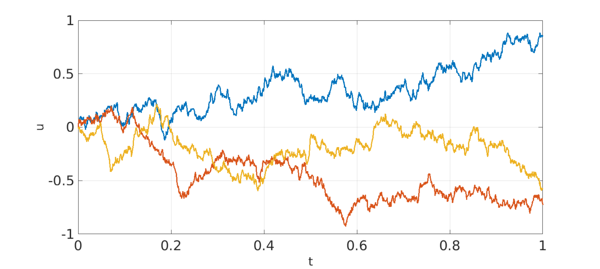
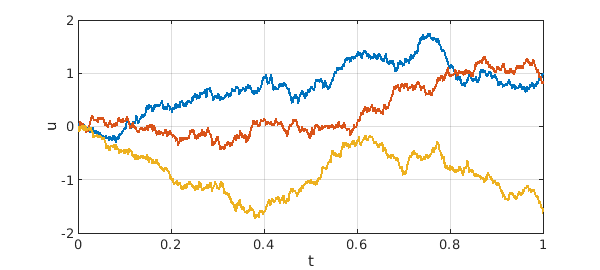
updating random example

diff --git a/examples/ode-random/Random2SDE.html b/examples/ode-random/Random2SDE.html
@@ -61,30 +61,38 @@
     <div class="container">
 <div class="row main">
 <div id='content' class="col-sm-12 example" role="main">
-<p>The new Chebfun release v5.7.0 brings with it a new set of capabilities: smooth random functions, or as we will often simply call them, random functions.  The commands are <code>randnfun</code>, <code>randnfun2</code>, <code>randnfunsphere</code>, and <code>randnfundisk</code>.  (As of this writing there is not yet a <code>randnfun3</code>.)  Each of these returns a band-limited function defined by a Fourier series with independent random coefficients; a parameter $\lambda$ specifies the minimal wavelength.  These commands have not yet been fully written up, but a few examples can be found in the Approximation (1D), Approximation (2D), and Statistics and Probability sections of these Examples, and more details can be found in the help texts and Matlab codes.</p>
+<p>The new Chebfun release v5.7.0 brings with it a new set of capabilities: smooth random functions. The commands are <code>randnfun</code>, <code>randnfun2</code>, <code>randnfunsphere</code>, and <code>randnfundisk</code>.  (There is not yet a <code>randnfun3</code>.)  Each of these returns a band-limited function defined by a Fourier series with independent random coefficients; a parameter $\lambda$ specifies the minimal wavelength.  For information about the mathematics, see [1] and also chapter 12 of [2].</p>
 <pre class="mcode-input">help randnfun</pre>
 
-<pre class="mcode-output"> RANDNFUN   Random smooth function
-    F = RANDNFUN(LAMBDA) returns a smooth CHEBFUN on [-1,1] with maximum
-    frequency about 2pi/LAMBDA and standard normal distribution N(0,1)
-    at each point.  F can be regarded as one sample path of a Gaussian
+<pre class="mcode-output"> RANDNFUN   Smooth random function
+    F = RANDNFUN(LAMBDA) returns a CHEBFUN on [-1,1] with maximum
+    frequency &lt;= 2pi/LAMBDA and standard normal distribution N(0,1)
+    at each point.  F can be regarded as a sample path of a Gaussian
     process.  It is obtained by calling RANDNFUN(LAMBDA, 'trig') on an
-    interval about 20% longer and restricting the result to [-1,1].
+    interval 20% longer and restricting the result to [-1,1].
 
     RANDNFUN(LAMBDA, DOM) returns a result with domain DOM = [A, B].
 
     RANDNFUN(LAMBDA, N) returns a quasimatrix with N independent columns.
 
-    RANDNFUN(LAMBDA, 'norm') normalizes the output by dividing it by
-    SQRT(LAMBDA), so white noise is approached in the limit LAMBDA -&gt; 0.
+    RANDNFUN(LAMBDA, 'big') normalizes the output by dividing it by
+    SQRT(LAMBDA/2), so white noise is approached in the limit LAMBDA -&gt; 0,
+    with an indefinite integral corresponding to standard Brownian motion.
 
     RANDNFUN(LAMBDA, 'trig') returns a random periodic function.  This
-    is defined by a finite Fourier series with independent normally
+    is defined by a finite Fourier-Wiener series with independent normally
     distributed coefficients of equal variance.
 
+    RANDNFUN(LAMBDA, 'complex') returns a complex random function.  The
+    variance is the same as in the real case (i.e., not twice as great).
+
     RANDNFUN() uses the default value LAMBDA = 1.  Combinations such
-    as RANDNFUN(DOM), RANDNFUN('norm', LAMBDA) are allowed so long as
-    LAMBDA, if present, precedes N, if present.
+    as RANDNFUN(DOM) and RANDNFUN('big', LAMBDA) are allowed so long as
+    N, if present, is preceded by an explicit specification of LAMBDA.
+
+    Reference: S. Filip, A. Javeed, and L. N. Trefethen, "Smooth random
+    functions, random ODEs, and Gaussian processes," SIAM Review, 61
+    (2019), pp. 185-205.
 
   Examples:
 
@@ -93,32 +101,38 @@
 
     X = randnfun(.01,2); cov(X)
 
-    f = randnfun(0.1,'norm',[0 10]); plot(cumsum(f))
+    s = randi(100);
+    rng(s), f1 = randnfun(0.5,'big',[0 10],3);
+    rng(s), f2 = randnfun(0.1,'big',[0 10],3);
+    plot(cumsum(f1),'k',cumsum(f2),'r')
 
-  See also RANDNFUN2, RANDNFUNSPHERE, RANDNFUNDISK.
+    plot(cumsum(randnfun(.01,[0 5],'complex','big'))), axis equal
+
+  See also RANDNFUN2, RANDNFUNSPHERE, RANDNFUNDISK, SMOOTHIE.
 
 </pre>
 
-<p>These commands make it easy to compute sample paths of random ODEs in Chebfun, that is, of ODEs defined by smooth random coefficients. As $\lambda \to 0$, we approach the limit of stochastic DEs (SDEs), typically in their Stratonovich (as opposed to It&ocirc;) formulation.  This too has not been written up.  Precise statements relating Chebfun's random functions to SDEs are not yet available, but we expect them to be developed in due course, building for example on the theory of Wong and Zakai [1].  But we don't need a fully developed theory to start exploring!  Chebfun provides an easy window into some of the phenomena that make SDEs so fascinating and so important.  Just remember that, properly speaking, what Chebfun solves is a random ODE (based on band-limited randomness), not a true SDE (based on band-unlimited randomness, i.e., white noise, a notion made precise through the formulation of a Wiener process, also known as Brownian motion).</p>
-<p>For studies of this kind, one should always call <code>randnfun</code> and its cousins with the flag <code>'norm'</code>.  This multiplies the random function by $\lambda^{-1/2}$, meaning that its amplitude grows without bound as $\lambda\to 0$.  This is what is needed for random ODEs that are intended to approximate SDEs.</p>
+<p>These commands make it easy to compute sample paths of random ODEs in Chebfun, that is, of ODEs defined by smooth random coefficients. As $\lambda \to 0$, we approach the limit of stochastic DEs (SDEs) in their Stratonovich (as opposed to It&ocirc;) formulation. Thus Chebfun provides an easy window into the phenomena that make SDEs so fascinating and so important.  Note that what Chebfun solves is a random ODE (based on band-limited randomness), not an SDE (based on band-unlimited randomness, i.e., white noise, a notion made precise through the formulation of a Wiener process, also known as Brownian motion). In the limit $\lambda\to 0$ they are the same (though Chebfun becomes quite an inefficient tool if you try to get too close to that limit).</p>
+<p>For ODE-related studies, one should always call <code>randnfun</code> and its cousins with the flag <code>'big'</code>.  This multiplies the random function by $(\lambda/2)^{-1/2}$, meaning that its amplitude grows without bound as $\lambda\to 0$.  This is what is needed for random ODEs to approximate SDEs.</p>
 <p>Here we give just the simplest example.  If $f$ is a normalized random function, then the equation $$ u' = f $$ has the indefinite integral of $f$ as its solution.  We call this a "smooth random walk".  If $\lambda$ is small enough, it looks to the eye like true Brownian motion, and as $\lambda \to 0$, that is what it approaches. For finite $\lambda$ there are no mathematical technicalities to worry about; it is simply an ODE.  Precise statements about the limit $\lambda\to 0$ require care, however, and stochastic analysts would write the equation above in a very different form, $$ dX_t = d W_t. $$</p>
 <p>Here are three smooth random walk sample paths for $t\in [0,1]$ with $u(0) = 0$ and $\lambda = 0.001$.</p>
 <pre class="mcode-input">tic
 rng(0)
-u = randnfun(0.001,[0 1],3,'norm');
-plot(cumsum(u),'linewidth',2.5)
-grid on, ylim([-1 1])
-xlabel('t','fontsize',30), ylabel('u','fontsize',30)</pre>
+u = randnfun(0.001,[0 1],3,'big');
+plot(cumsum(u))
+grid on, ylim([-2 2])
+xlabel t, ylabel u</pre>
 
 <p><img src="img/Random2SDE_01.png" class="figure" alt=""></p>
 <pre class="mcode-input">total_time_in_seconds = toc</pre>
 
 <pre class="mcode-output">total_time_in_seconds =
-   2.420549000000000
+   1.005472000000000
 </pre>
 
-<p>Reference:</p>
-<p>[1] E. Wong and M. Zakai, On the convergence of ordinary integrals to stochastic integrals, <em>The Annals of Mathematical Statistics</em> 36.5 (1965), 1560-1564.</p></div>
+<p>References:</p>
+<p>[1] S. Filip, A. Javeed, and L. N. Trefethen, Smooth random functions, random ODEs, and Gaussian processes, <em>SIAM Review</em>, 61 (2019), 185--205.</p>
+<p>[2] L. N. Trefethen, <em>Approximation Theory and Approximation Practice, Extended Edition</em>, SIAM, 2019.</p></div>
         </div>
     </div>
 </div>

diff --git a/examples/ode-random/img/Random2SDE.html b/examples/ode-random/img/Random2SDE.html
@@ -5,29 +5,37 @@ authordate: "Nick Trefethen and Abdul-Lateef Haji-Ali, May 2017"
 meta: "(Chebfun example ode-random/Random2SDE.m)"
 ---
 
-The new Chebfun release v5.7.0 brings with it a new set of capabilities: smooth random functions, or as we will often simply call them, random functions.  The commands are `randnfun`, `randnfun2`, `randnfunsphere`, and `randnfundisk`.  (As of this writing there is not yet a `randnfun3`.)  Each of these returns a band-limited function defined by a Fourier series with independent random coefficients; a parameter $\lambda$ specifies the minimal wavelength.  These commands have not yet been fully written up, but a few examples can be found in the Approximation (1D), Approximation (2D), and Statistics and Probability sections of these Examples, and more details can be found in the help texts and Matlab codes.
+The new Chebfun release v5.7.0 brings with it a new set of capabilities: smooth random functions. The commands are `randnfun`, `randnfun2`, `randnfunsphere`, and `randnfundisk`.  (There is not yet a `randnfun3`.)  Each of these returns a band-limited function defined by a Fourier series with independent random coefficients; a parameter $\lambda$ specifies the minimal wavelength.  For information about the mathematics, see [1] and also chapter 12 of [2].
 
-<pre class="mcode-input">help randnfun</pre><pre class="mcode-output"> RANDNFUN   Random smooth function
-    F = RANDNFUN(LAMBDA) returns a smooth CHEBFUN on [-1,1] with maximum
-    frequency about 2pi/LAMBDA and standard normal distribution N(0,1)
-    at each point.  F can be regarded as one sample path of a Gaussian
+<pre class="mcode-input">help randnfun</pre><pre class="mcode-output"> RANDNFUN   Smooth random function
+    F = RANDNFUN(LAMBDA) returns a CHEBFUN on [-1,1] with maximum
+    frequency &lt;= 2pi/LAMBDA and standard normal distribution N(0,1)
+    at each point.  F can be regarded as a sample path of a Gaussian
     process.  It is obtained by calling RANDNFUN(LAMBDA, 'trig') on an
-    interval about 20% longer and restricting the result to [-1,1].
+    interval 20% longer and restricting the result to [-1,1].
  
     RANDNFUN(LAMBDA, DOM) returns a result with domain DOM = [A, B].
  
     RANDNFUN(LAMBDA, N) returns a quasimatrix with N independent columns.
  
-    RANDNFUN(LAMBDA, 'norm') normalizes the output by dividing it by
-    SQRT(LAMBDA), so white noise is approached in the limit LAMBDA -&gt; 0.
+    RANDNFUN(LAMBDA, 'big') normalizes the output by dividing it by
+    SQRT(LAMBDA/2), so white noise is approached in the limit LAMBDA -&gt; 0,
+    with an indefinite integral corresponding to standard Brownian motion.
  
     RANDNFUN(LAMBDA, 'trig') returns a random periodic function.  This
-    is defined by a finite Fourier series with independent normally
+    is defined by a finite Fourier-Wiener series with independent normally
     distributed coefficients of equal variance.
  
+    RANDNFUN(LAMBDA, 'complex') returns a complex random function.  The
+    variance is the same as in the real case (i.e., not twice as great).
+ 
     RANDNFUN() uses the default value LAMBDA = 1.  Combinations such
-    as RANDNFUN(DOM), RANDNFUN('norm', LAMBDA) are allowed so long as
-    LAMBDA, if present, precedes N, if present.
+    as RANDNFUN(DOM) and RANDNFUN('big', LAMBDA) are allowed so long as
+    N, if present, is preceded by an explicit specification of LAMBDA.
+ 
+    Reference: S. Filip, A. Javeed, and L. N. Trefethen, "Smooth random
+    functions, random ODEs, and Gaussian processes," SIAM Review, 61
+    (2019), pp. 185-205.
  
   Examples:
  
@@ -36,13 +44,18 @@ The new Chebfun release v5.7.0 brings with it a new set of capabilities: smooth 
  
     X = randnfun(.01,2); cov(X)
  
-    f = randnfun(0.1,'norm',[0 10]); plot(cumsum(f))
+    s = randi(100);
+    rng(s), f1 = randnfun(0.5,'big',[0 10],3);
+    rng(s), f2 = randnfun(0.1,'big',[0 10],3);
+    plot(cumsum(f1),'k',cumsum(f2),'r')
  
-  See also RANDNFUN2, RANDNFUNSPHERE, RANDNFUNDISK.
+    plot(cumsum(randnfun(.01,[0 5],'complex','big'))), axis equal
+ 
+  See also RANDNFUN2, RANDNFUNSPHERE, RANDNFUNDISK, SMOOTHIE.
 
-</pre>These commands make it easy to compute sample paths of random ODEs in Chebfun, that is, of ODEs defined by smooth random coefficients. As $\lambda \to 0$, we approach the limit of stochastic DEs (SDEs), typically in their Stratonovich (as opposed to It&ocirc;) formulation.  This too has not been written up.  Precise statements relating Chebfun's random functions to SDEs are not yet available, but we expect them to be developed in due course, building for example on the theory of Wong and Zakai [1].  But we don't need a fully developed theory to start exploring!  Chebfun provides an easy window into some of the phenomena that make SDEs so fascinating and so important.  Just remember that, properly speaking, what Chebfun solves is a random ODE (based on band-limited randomness), not a true SDE (based on band-unlimited randomness, i.e., white noise, a notion made precise through the formulation of a Wiener process, also known as Brownian motion).
+</pre>These commands make it easy to compute sample paths of random ODEs in Chebfun, that is, of ODEs defined by smooth random coefficients. As $\lambda \to 0$, we approach the limit of stochastic DEs (SDEs) in their Stratonovich (as opposed to It&ocirc;) formulation. Thus Chebfun provides an easy window into the phenomena that make SDEs so fascinating and so important.  Note that what Chebfun solves is a random ODE (based on band-limited randomness), not an SDE (based on band-unlimited randomness, i.e., white noise, a notion made precise through the formulation of a Wiener process, also known as Brownian motion). In the limit $\lambda\to 0$ they are the same (though Chebfun becomes quite an inefficient tool if you try to get too close to that limit).
 
-For studies of this kind, one should always call `randnfun` and its cousins with the flag `'norm'`.  This multiplies the random function by $\lambda^{-1/2}$, meaning that its amplitude grows without bound as $\lambda\to 0$.  This is what is needed for random ODEs that are intended to approximate SDEs.
+For ODE-related studies, one should always call `randnfun` and its cousins with the flag `'big'`.  This multiplies the random function by $(\lambda/2)^{-1/2}$, meaning that its amplitude grows without bound as $\lambda\to 0$.  This is what is needed for random ODEs to approximate SDEs.
 
 Here we give just the simplest example.  If $f$ is a normalized random function, then the equation $$ u' = f $$ has the indefinite integral of $f$ as its solution.  We call this a "smooth random walk".  If $\lambda$ is small enough, it looks to the eye like true Brownian motion, and as $\lambda \to 0$, that is what it approaches. For finite $\lambda$ there are no mathematical technicalities to worry about; it is simply an ODE.  Precise statements about the limit $\lambda\to 0$ require care, however, and stochastic analysts would write the equation above in a very different form, $$ dX_t = d W_t. $$
 
@@ -50,14 +63,16 @@ Here are three smooth random walk sample paths for $t\in [0,1]$ with $u(0) = 0$ 
 
 <pre class="mcode-input">tic
 rng(0)
-u = randnfun(0.001,[0 1],3,'norm');
-plot(cumsum(u),'linewidth',2.5)
-grid on, ylim([-1 1])
-xlabel('t','fontsize',30), ylabel('u','fontsize',30)</pre><img src="img/Random2SDE_01.png" class="figure" alt="">
+u = randnfun(0.001,[0 1],3,'big');
+plot(cumsum(u))
+grid on, ylim([-2 2])
+xlabel t, ylabel u</pre><img src="img/Random2SDE_01.png" class="figure" alt="">
 
 <pre class="mcode-input">total_time_in_seconds = toc</pre><pre class="mcode-output">total_time_in_seconds =
-   2.420549000000000
-</pre>Reference:
+   1.005472000000000
+</pre>References:
 
-[1] E. Wong and M. Zakai, On the convergence of ordinary integrals to stochastic integrals, _The Annals of Mathematical Statistics_ 36.5 (1965), 1560-1564.
+[1] S. Filip, A. Javeed, and L. N. Trefethen, Smooth random functions, random ODEs, and Gaussian processes, _SIAM Review_, 61 (2019), 185--205.
+
+[2] L. N. Trefethen, _Approximation Theory and Approximation Practice, Extended Edition_, SIAM, 2019.
 

diff --git a/examples/ode-random/index.html b/examples/ode-random/index.html
@@ -61,7 +61,7 @@
 <div class="row main noleftpadding"><div class="col-sm-4 noleftpadding">
     <ul class='sidenav'>
         <li><a href="/examples/applics/index.html">Applications<span>6</span></a></li>
-        <li><a href="/examples/approx/index.html">Approximation (1D)<span>43</span></a></li>
+        <li><a href="/examples/approx/index.html">Approximation (1D)<span>44</span></a></li>
         <li><a href="/examples/approx2/index.html">Approximation (2D)<span>16</span></a></li>
         <li><a href="/examples/approx3/index.html">Approximation (3D)<span>10</span></a></li>
         <li><a href="/examples/calc/index.html">Calculus<span>6</span></a></li>

diff --git a/index.html b/index.html
@@ -269,5 +269,5 @@ plot(minx(1),minx(2),'.w')
     <script type="text/javascript" src="/js/config.js"></script>
     <script type="text/javascript" src="/js/jquery.flexslider-min.js"></script>
   </body>
-<!-- Compiled on Friday, 09 April 2021 at 10:44. -->
+<!-- Compiled on Friday, 09 April 2021 at 11:34. -->
 </html>

diff --git a/examples/ode-random/Random2SDE.m b/examples/ode-random/Random2SDE.m
@@ -6,46 +6,39 @@
 
 %%
 % The new Chebfun release v5.7.0 brings with it a new
-% set of capabilities: smooth random functions, or as we
-% will often simply call them, random functions.  The commands
-% are |randnfun|, |randnfun2|, |randnfunsphere|, and 
-% |randnfundisk|.  (As of this writing there is not yet
+% set of capabilities: smooth random functions.
+% The commands are |randnfun|, |randnfun2|, |randnfunsphere|, and 
+% |randnfundisk|.  (There is not yet
 % a |randnfun3|.)  Each of these returns a band-limited
 % function defined by a Fourier series with independent random
 % coefficients; a parameter $\lambda$ specifies the
-% minimal wavelength.  These commands have not yet been fully written up, but
-% a few examples can be found in the Approximation (1D), Approximation (2D),
-% and Statistics and Probability sections of these Examples, and
-% more details can be found in the help texts and Matlab codes.
+% minimal wavelength.  For information about the mathematics, see [1] and
+% also chapter 12 of [2].
 help randnfun
 
 %%
 % These commands make it easy to compute sample paths of random
 % ODEs in Chebfun, that is, of ODEs defined by smooth random coefficients.
-% As $\lambda \to 0$, we approach the limit of stochastic DEs (SDEs), typically
-% in their Stratonovich (as opposed to It&ocirc;) formulation.  This too has
-% not been written up.  Precise statements relating Chebfun's random
-% functions to SDEs are not yet available, but we expect them to be
-% developed in due course, building for example on the
-% theory of Wong and Zakai [1].  But we don't need a fully developed theory
-% to start exploring!  Chebfun provides an easy window into some of
-% the phenomena that make SDEs so fascinating and so important.  Just
-% remember that, properly speaking, what Chebfun solves is a random ODE
-% (based on band-limited randomness), not a true SDE (based on band-unlimited
+% As $\lambda \to 0$, we approach the limit of stochastic DEs (SDEs)
+% in their Stratonovich (as opposed to It&ocirc;) formulation.
+% Thus Chebfun provides an easy window into
+% the phenomena that make SDEs so fascinating and so important.  Note that
+% what Chebfun solves is a random ODE
+% (based on band-limited randomness), not an SDE (based on band-unlimited
 % randomness, i.e., white noise, a notion made precise through the 
 % formulation of a Wiener process, also known as Brownian motion).
+% In the limit $\lambda\to 0$ they are the same (though Chebfun becomes
+% quite an inefficient tool if you try to get too close to that limit).
 
 %%
-% For studies of this kind, one should always call |randnfun| and its
+% For ODE-related studies, one should always call |randnfun| and its
 % cousins with the flag |'big'|.  This multiplies the random function
-% by $\lambda^{-1/2}$, meaning that its amplitude grows without bound
-% as $\lambda\to 0$.  This is what is needed for random ODEs that
-% are intended to approximate SDEs.
+% by $(\lambda/2)^{-1/2}$, meaning that its amplitude grows without bound
+% as $\lambda\to 0$.  This is what is needed for random ODEs to approximate SDEs.
 
 %%
 % Here we give just the simplest example.  If $f$ is a normalized random
-% function, then the equation
-% $$ u' = f $$
+% function, then the equation $$ u' = f $$
 % has the indefinite integral of $f$ as its solution.  We call this a
 % "smooth random walk".  If $\lambda$ is small enough, it looks to the eye
 % like true Brownian motion, and as $\lambda \to 0$, that is what it approaches.
@@ -56,22 +49,24 @@ help randnfun
 % $$ dX_t = d W_t. $$
 
 %%
-% Here are three smooth random walk
-% sample paths for $t\in [0,1]$ with $u(0) = 0$
+% Here are three smooth random walk sample paths for $t\in [0,1]$ with $u(0) = 0$
 % and $\lambda = 0.001$.
 tic
 rng(0)
 u = randnfun(0.001,[0 1],3,'big');
-plot(cumsum(u),'linewidth',2.5)
-grid on, ylim([-1 1])
-xlabel('t','fontsize',30), ylabel('u','fontsize',30)
+plot(cumsum(u))
+grid on, ylim([-2 2])
+xlabel t, ylabel u
 
 %%
 total_time_in_seconds = toc
 
 %%
-% Reference:
+% References:
 %
-% [1] E. Wong and M. Zakai, On the convergence of ordinary
-% integrals to stochastic integrals, _The Annals of Mathematical Statistics_
-% 36.5 (1965), 1560-1564.
+% [1] S. Filip, A. Javeed, and L. N. Trefethen,
+% Smooth random functions, random ODEs, and Gaussian processes,
+% _SIAM Review_, 61 (2019), 185--205.
+%
+% [2] L. N. Trefethen, _Approximation Theory and Approximation Practice,
+% Extended Edition_, SIAM, 2019.
